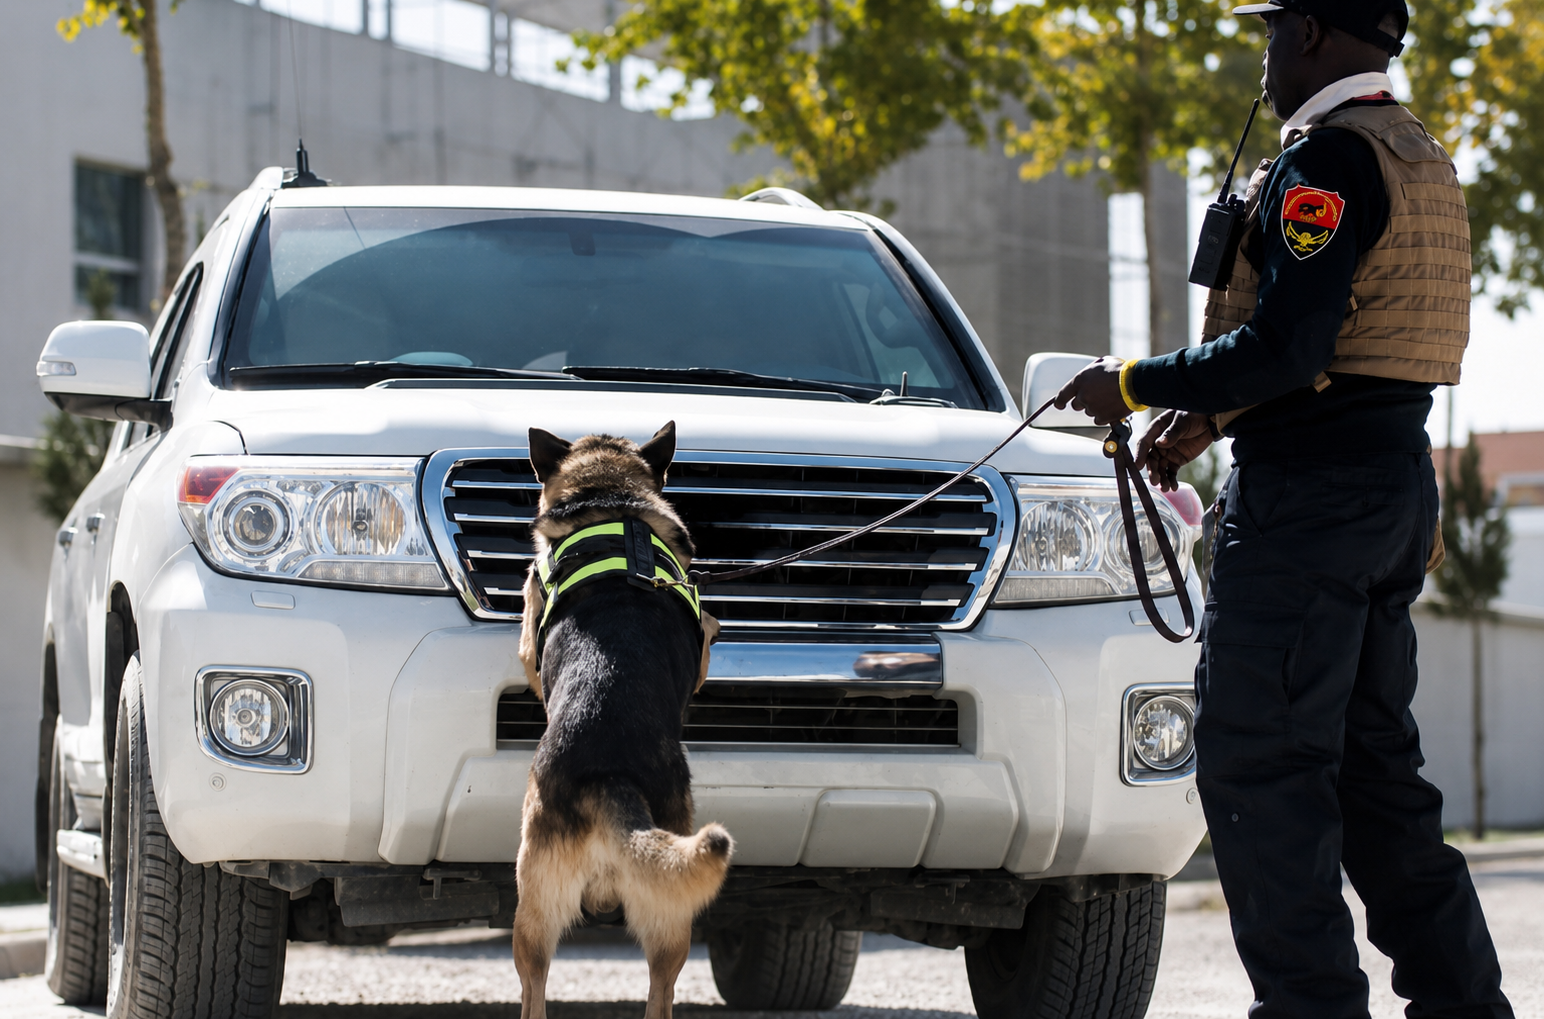
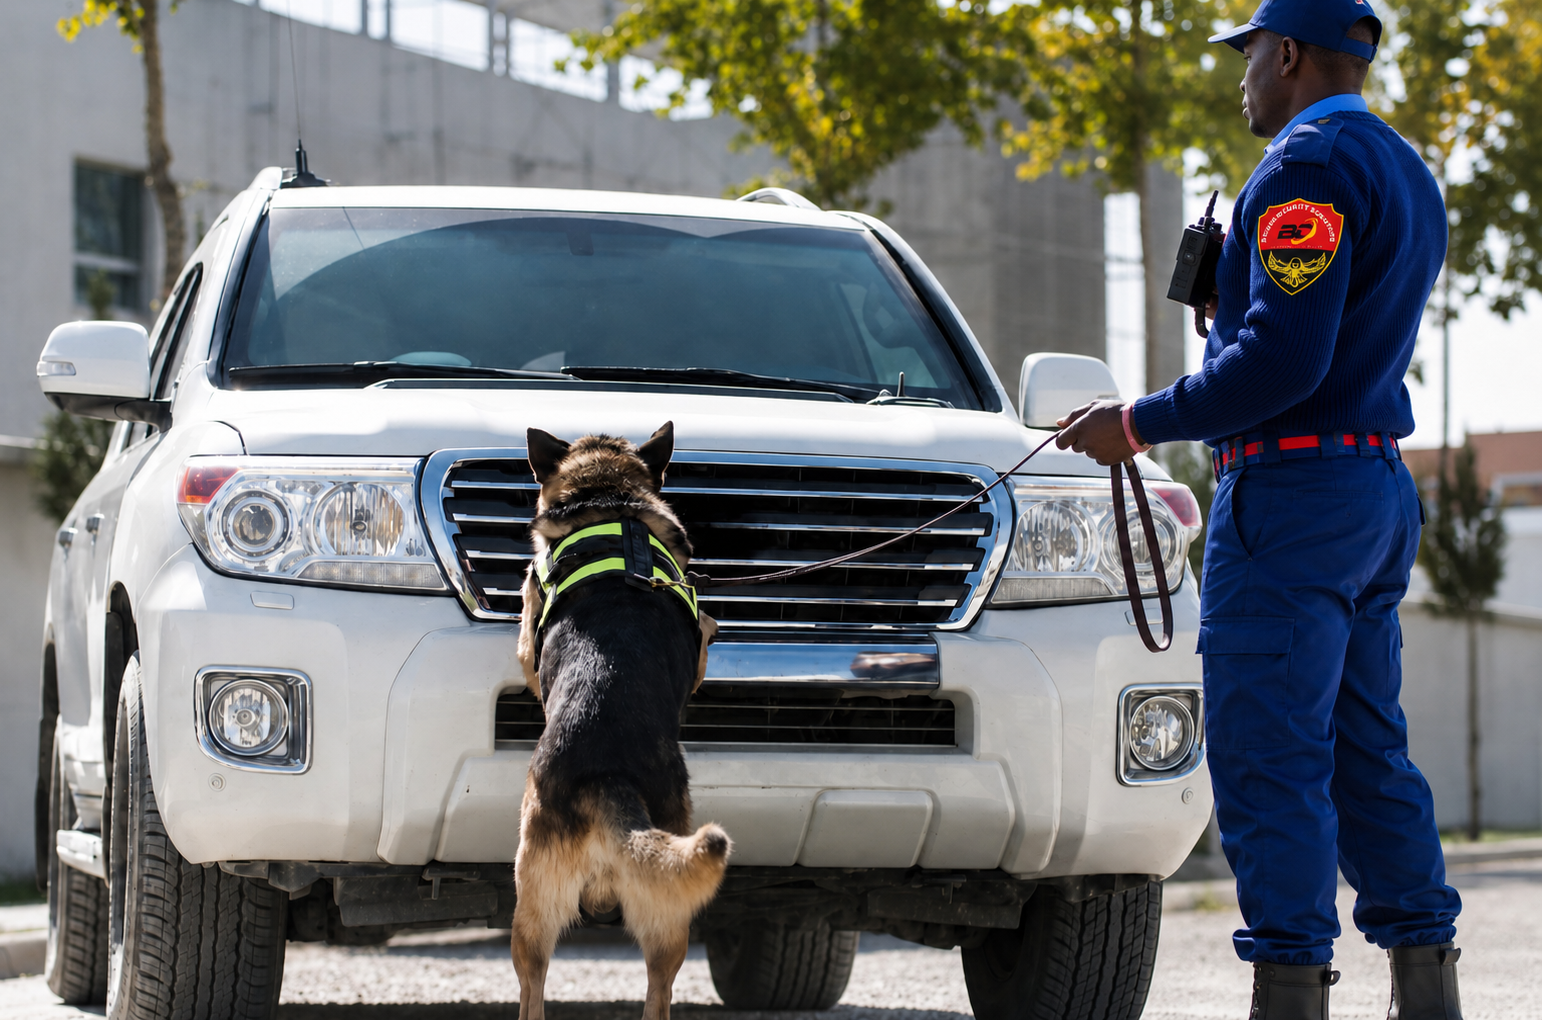
update

diff --git a/src/App.jsx b/src/App.jsx
@@ -784,22 +784,23 @@ function Services() {
                 onMouseEnter={() => setActive(i)} onMouseLeave={() => setActive(null)}
                 onClick={() => navigate(`/services/${s.slug}`)}>
                 {s.tag && (
-                  <span className="absolute top-4 right-4 text-xs font-bold px-3 py-1 rounded-full text-white z-10"
+                  <span className="absolute top-4 left-1/2 -translate-x-1/2 text-xs font-bold px-3 py-1 rounded-full text-white z-10"
                     style={{ background: s.color }}>{s.tag}</span>
                 )}
-                <div className="h-40 overflow-hidden">
+                <div className="h-64 overflow-hidden">
                   <img src={`/${s.photo}`} alt={s.title}
-                    className="w-full h-full object-cover transition-transform duration-500"
+                    className="w-full h-full object-cover object-top transition-transform duration-500"
                     style={{ transform: active === i ? "scale(1.05)" : "scale(1)" }}
                     onError={e => { e.target.parentElement.style.background = s.bg; e.target.style.display="none"; }} />
-                  <div className="absolute top-0 left-0 right-0 h-40"
-                    style={{ background: `linear-gradient(to bottom, transparent 50%, ${active === i ? s.gradient.split(",")[1] : "#ffffff"})` }} />
+
                 </div>
                 <div className="p-8">
-                  <div className="w-14 h-14 rounded-2xl flex items-center justify-center mb-5 shadow-sm -mt-7 relative z-10" style={{ background: s.bg }}>
-                    <s.icon className="w-7 h-7" style={{ color: s.color }} />
+                  <div className="flex items-center gap-3 mb-4 -mt-7 relative z-10">
+                    <div className="w-12 h-12 rounded-2xl flex items-center justify-center shadow-sm shrink-0" style={{ background: s.bg }}>
+                      <s.icon className="w-6 h-6" style={{ color: s.color }} />
+                    </div>
+                    <h3 className="text-xl font-bold text-gray-900 leading-tight">{s.title}</h3>
                   </div>
-                  <h3 className="text-xl font-bold text-gray-900 mb-3">{s.title}</h3>
                   <p className="text-gray-500 text-sm leading-relaxed mb-4">{s.desc}</p>
                   <ul className="space-y-1.5 mb-5">
                     {s.bullets.map((b, j) => (